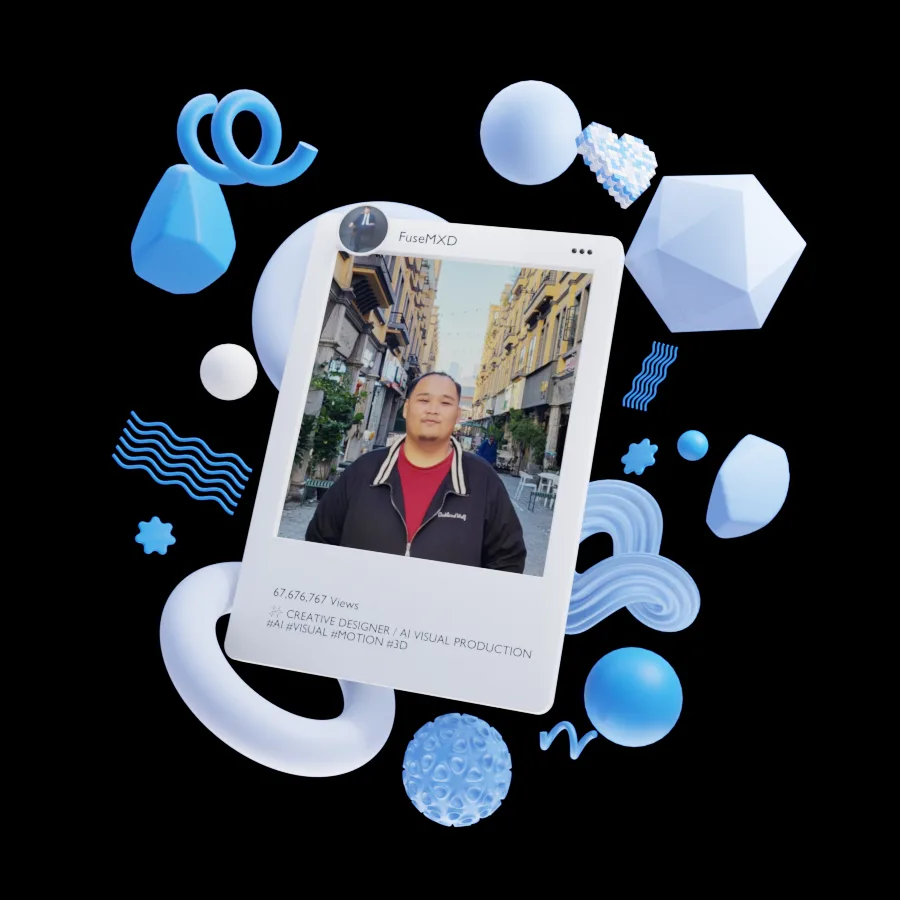
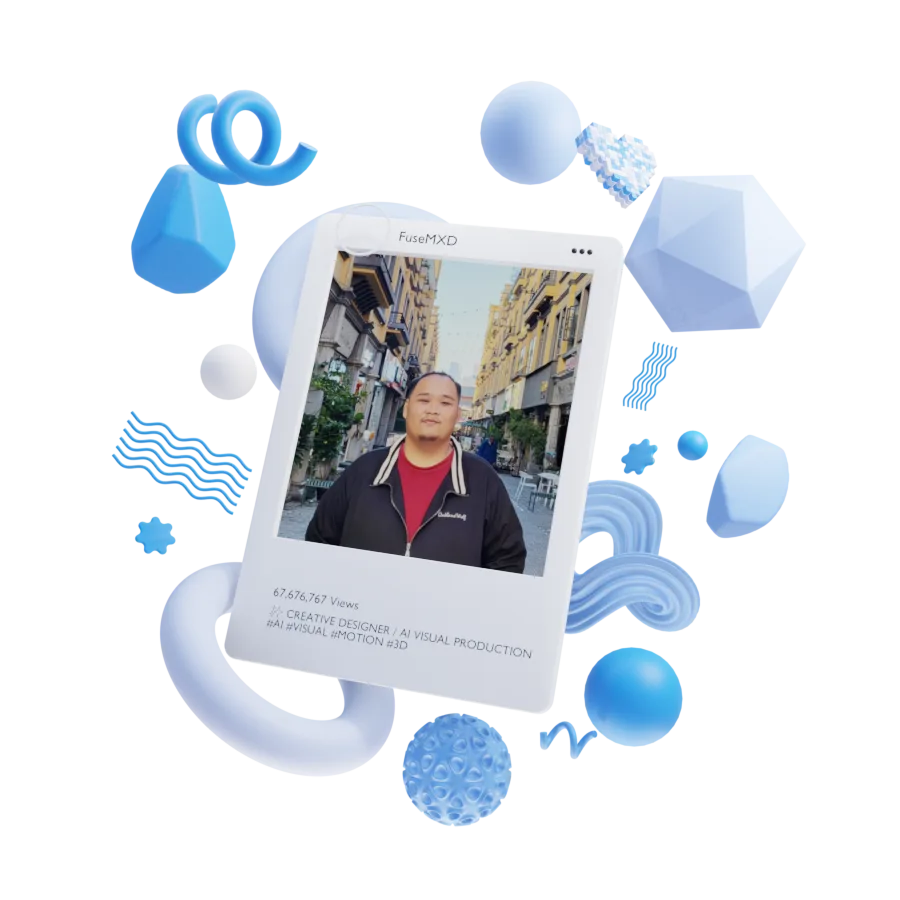
Clean up colorful 3D hero

diff --git a/public/colorful/styles.css b/public/colorful/styles.css
@@ -360,7 +360,7 @@ p {
 
 .hero-art {
   align-self: stretch;
-  background: #05070d;
+  background: var(--cream);
   border: 1px solid var(--ink);
   border-radius: 7px;
   box-shadow: 7px 7px 0 var(--purple);
@@ -433,7 +433,7 @@ p {
 }
 
 .hero-three-error {
-  color: rgba(255, 255, 255, 0.72);
+  color: var(--ink);
   font-size: 12px;
   left: 50%;
   position: absolute;

diff --git a/public/colorful/three-hero.js b/public/colorful/three-hero.js
@@ -15,8 +15,8 @@ const resetButton = document.querySelector("#hero-three-reset");
 if (host && canvas) {
   const reducedMotion = window.matchMedia("(prefers-reduced-motion: reduce)").matches;
   const scene = new THREE.Scene();
-  scene.background = new THREE.Color(0x05070d);
-  scene.fog = new THREE.FogExp2(0x05070d, 0.035);
+  scene.background = new THREE.Color(0xfff8e9);
+  scene.fog = new THREE.FogExp2(0xfff8e9, 0.035);
 
   const camera = new THREE.PerspectiveCamera(38, 1, 0.01, 100);
   camera.position.set(0, 0.1, 5.2);

diff --git a/scripts/export_web_model.py b/scripts/export_web_model.py
@@ -5,6 +5,10 @@ from pathlib import Path
 import bpy
 
 
+EXCLUDED_OBJECTS = {"bg", "Circle.001"}
+WEB_BACKGROUND = (1.0, 0.9387, 0.8069, 1.0)
+
+
 def parse_args():
     parser = argparse.ArgumentParser()
     parser.add_argument("--output", required=True)
@@ -18,6 +22,16 @@ def parse_args():
 def render_poster(path: Path, frame: int):
     scene = bpy.context.scene
     scene.frame_set(frame)
+    for obj in scene.objects:
+        if obj.name in EXCLUDED_OBJECTS:
+            obj.hide_render = True
+
+    scene.world.color = WEB_BACKGROUND[:3]
+    if scene.world.use_nodes:
+        background = scene.world.node_tree.nodes.get("Background")
+        if background:
+            background.inputs["Color"].default_value = WEB_BACKGROUND
+
     scene.render.engine = "BLENDER_EEVEE"
     scene.render.resolution_x = 900
     scene.render.resolution_y = 900
@@ -25,7 +39,7 @@ def render_poster(path: Path, frame: int):
     scene.render.image_settings.file_format = "WEBP"
     scene.render.image_settings.color_mode = "RGBA"
     scene.render.image_settings.quality = 82
-    scene.render.film_transparent = False
+    scene.render.film_transparent = True
     scene.render.filepath = str(path)
     bpy.ops.render.render(write_still=True)
 
@@ -46,7 +60,7 @@ def flatten_meshes(decimate_ratio: float):
     meshes = [
         obj
         for obj in scene.objects
-        if obj.type == "MESH" and not obj.hide_render and obj.name != "bg"
+        if obj.type == "MESH" and not obj.hide_render and obj.name not in EXCLUDED_OBJECTS
     ]
     for obj in bpy.context.selected_objects:
         obj.select_set(False)